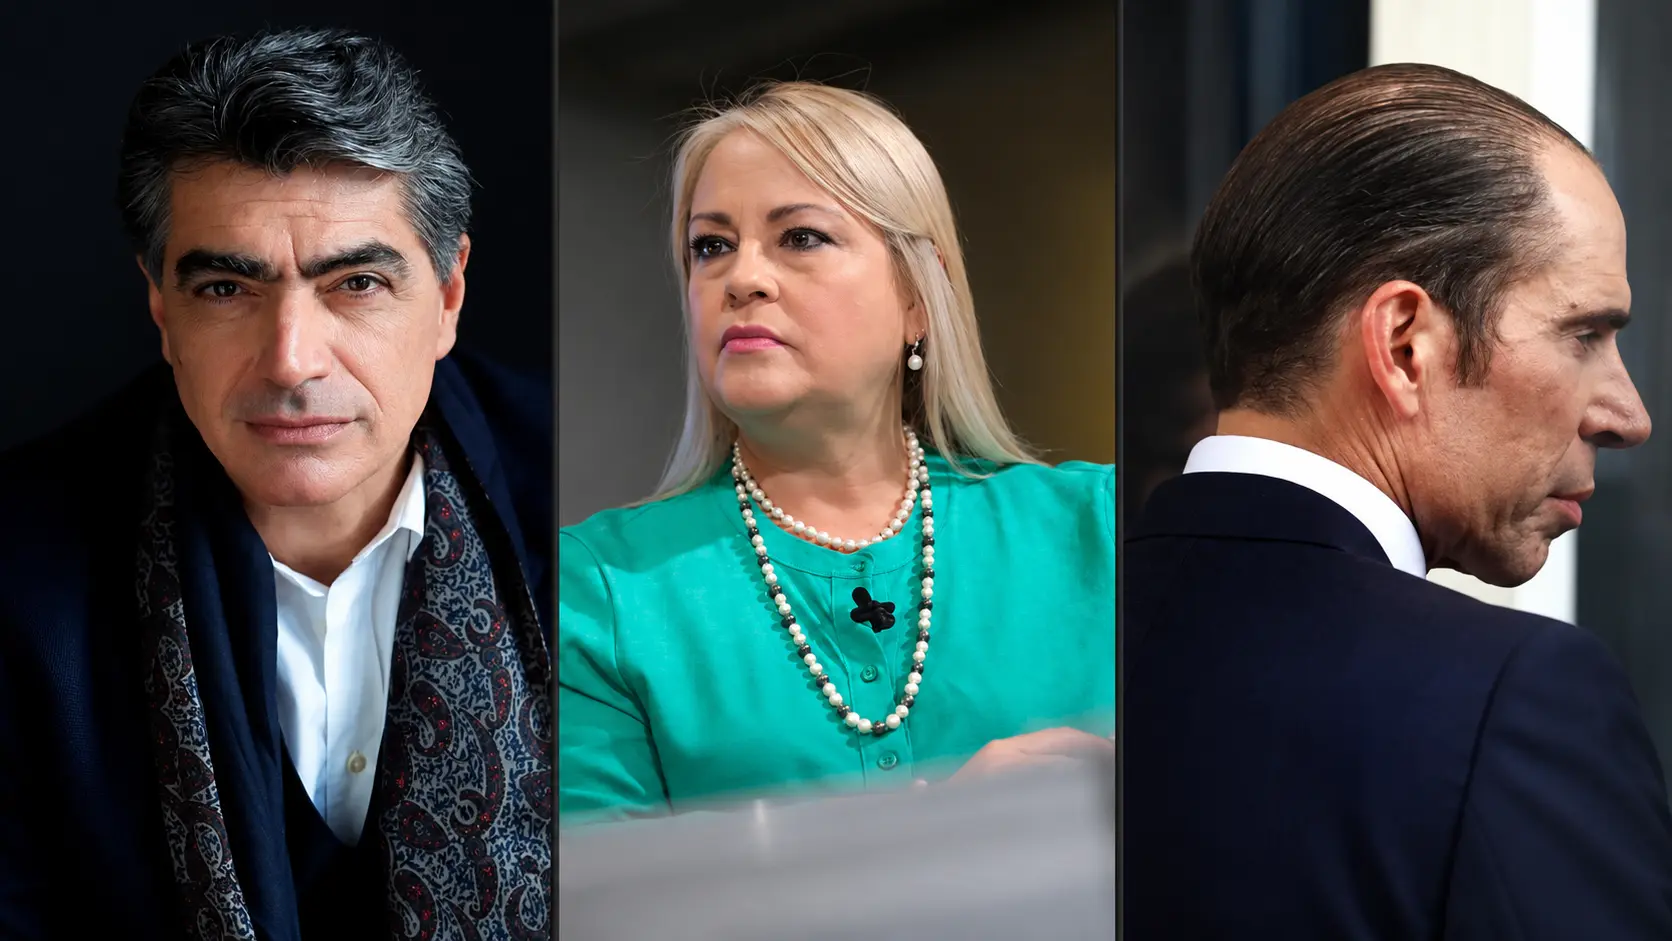
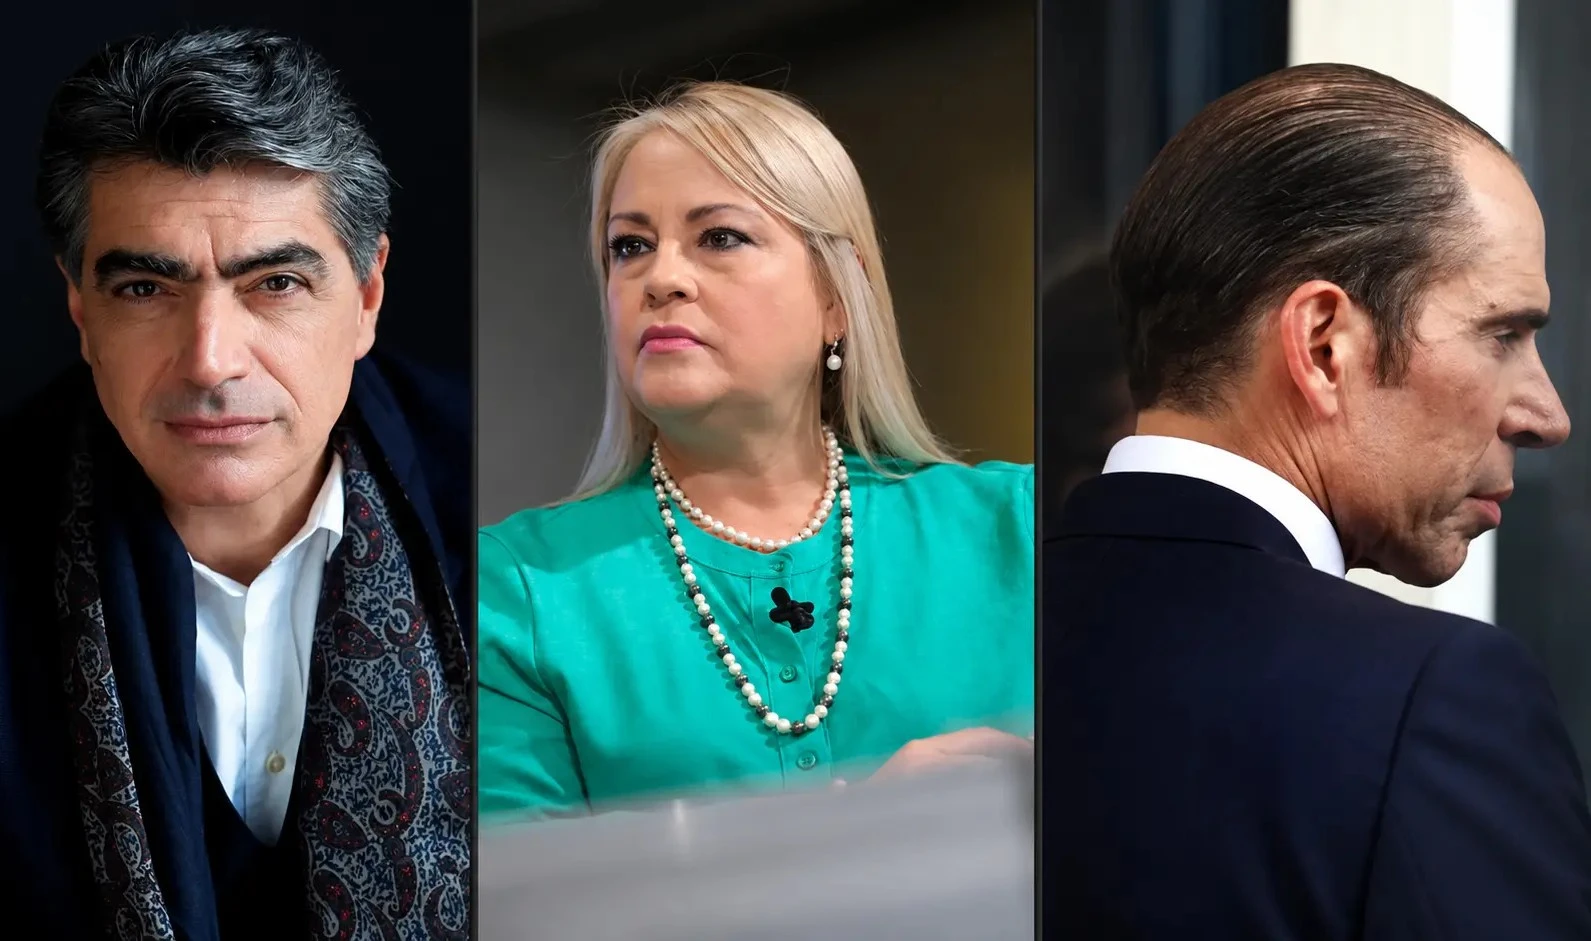
css adjustments

diff --git a/src/app/page.jsx b/src/app/page.jsx
@@ -772,7 +772,12 @@ export default function Home() {
             </Link>
           </h2>
         </div>
-        <div className="grid grid-cols-1 md:grid-cols-2 gap-8 md:gap-10">
+        {/*
+          Desktop: 2-col × 2-row grid.
+          Featured spans both rows → sets total height.
+          Each side card fills one row (½ of featured height).
+        */}
+        <div className="grid grid-cols-1 gap-6 md:grid-cols-2 md:grid-rows-2 md:gap-x-8 md:gap-y-5">
           <Link
             href={`/${
               inOtherNews.featured.categories?.[0]
@@ -780,50 +785,111 @@ export default function Home() {
                 : "world"
             }/${inOtherNews.featured.slug}`}
             title={inOtherNews.featured.title}
-            className="relative group cursor-pointer overflow-hidden border border-gray-200 block min-h-[400px]"
+            className="group flex flex-col overflow-hidden border border-gray-200 bg-white transition-shadow duration-300 hover:shadow-lg md:row-span-2"
           >
-            <Image
-              src={inOtherNews.featured.image}
-              alt={inOtherNews.featured.title}
-              fill
-              sizes="(max-width:768px) 100vw, 50vw"
-              className="object-cover transition-transform duration-700 group-hover:scale-105"
-            />
-            <div className="absolute inset-0 bg-black/50 group-hover:bg-black/60 transition-colors z-10" />
-            <div className="absolute inset-0 flex flex-col justify-end items-center text-center p-6 md:p-12 pb-8 text-white z-20">
-              <div className="flex gap-2 mb-4">
+            {/* Wider aspect so the 3-person composite isn’t side-cropped */}
+            <div className="relative aspect-[21/9] w-full shrink-0 overflow-hidden bg-gray-100">
+              <Image
+                src={inOtherNews.featured.image}
+                alt={inOtherNews.featured.title}
+                fill
+                sizes="(max-width: 768px) 100vw, 50vw"
+                className="object-cover object-center transition-transform duration-700 group-hover:scale-[1.03]"
+                priority
+              />
+            </div>
+
+            <div className="flex flex-col items-center px-5 py-5 text-center sm:px-7 sm:py-6">
+              <div className="mb-2.5 flex flex-wrap justify-center gap-2">
                 {inOtherNews.featured.categories.map((cat, idx) => (
                   <span
                     key={idx}
-                    className={`${cat.color} text-[10px] font-bold px-3 py-1 uppercase tracking-wider`}
+                    className={`${cat.color} px-3 py-1 text-[10px] font-bold uppercase tracking-wider text-white`}
                   >
                     {cat.label}
                   </span>
                 ))}
               </div>
               {inOtherNews.featured.isSponsored && (
-                <div className="text-[12px] font-medium mb-2">
-                  <Bell size={12} aria-hidden="true" className="inline mr-1" />
+                <div className="mb-2 text-[12px] font-medium text-gray-500">
+                  <Bell size={12} aria-hidden="true" className="mr-1 inline" />
                   Sponsored content
                 </div>
               )}
-              <h3 className="text-2xl font-bold leading-tight mb-4 max-w-md group-hover:text-blue-300 transition-colors">
+              <h3 className="mb-2 max-w-lg text-balance text-xl font-bold leading-snug text-gray-950 transition-colors group-hover:text-[#1565c0] sm:text-[1.35rem]">
                 {inOtherNews.featured.title}
               </h3>
-              <div className="text-[12px] font-bold uppercase tracking-widest mb-4">
+              <p className="mb-3 text-[11px] font-bold uppercase tracking-widest text-gray-500">
                 By {inOtherNews.featured.author}
-              </div>
-              <p className="text-[15px] italic font-serif leading-relaxed max-w-sm border-t border-white/20 pt-4">
-                &ldquo;{inOtherNews.featured.quote}&rdquo;
               </p>
+              {inOtherNews.featured.quote && (
+                <p className="max-w-md border-t border-gray-200 pt-3 text-[14px] italic leading-relaxed text-gray-600 sm:text-[15px]">
+                  &ldquo;{inOtherNews.featured.quote}&rdquo;
+                </p>
+              )}
             </div>
           </Link>
 
-          <div className="grid grid-cols-1 sm:grid-cols-2 gap-8 md:gap-10">
-            {puertoRicoGridSafe.map((news) => (
-              <NewsCard key={news.id} {...news} />
-            ))}
-          </div>
+          {puertoRicoGridSafe.map((news) => {
+            const href = `/${news.category}/${news.slug}`;
+            const iso = toISODate(news.date);
+            return (
+              <article
+                key={news.id}
+                className="group flex min-h-0 flex-col md:h-full"
+              >
+                {/* Image takes remaining space so the two cards share featured height */}
+                <div className="relative mb-2.5 aspect-[16/9] w-full shrink-0 overflow-hidden bg-gray-100 md:aspect-auto md:min-h-0 md:flex-1">
+                  <Link
+                    href={href}
+                    title={news.title}
+                    className="relative block h-full min-h-[120px] w-full md:min-h-0"
+                  >
+                    <Image
+                      src={news.image}
+                      alt={news.title}
+                      fill
+                      sizes="(max-width: 768px) 100vw, 50vw"
+                      className="object-cover object-center transition-transform duration-500 group-hover:scale-105"
+                    />
+                    <span
+                      className={`absolute bottom-2 left-2 z-10 ${news.categoryColor} px-2 py-0.5 text-[10px] font-bold uppercase tracking-wider text-white`}
+                    >
+                      {news.categoryLabel}
+                    </span>
+                  </Link>
+                </div>
+
+                <div className="shrink-0">
+                  <div className="mb-1 flex items-center gap-1 text-[11px] text-gray-400">
+                    <Calendar size={11} aria-hidden="true" />
+                    <time dateTime={iso}>{news.date}</time>
+                  </div>
+                  <h3 className="mb-1 text-[15px] font-bold leading-snug text-gray-900 transition-colors group-hover:text-blue-600">
+                    <Link href={href} title={news.title}>
+                      {news.title}
+                    </Link>
+                  </h3>
+                  <p className="mb-1 text-xs text-gray-500">
+                    By{" "}
+                    <Link
+                      href={authorHref(news.author)}
+                      title={`More articles by ${news.author}`}
+                      rel="author"
+                      className="font-semibold text-gray-700 transition-colors hover:text-blue-600"
+                    >
+                      {news.author}
+                    </Link>
+                  </p>
+                  {news.description && (
+                    <p className="line-clamp-2 text-sm leading-snug text-gray-600">
+                      {news.description}
+                    </p>
+                  )}
+                </div>
+              </article>
+            );
+          })}
         </div>
 
         {/* ── POLICE ACCOUNTABILITY SECTION ──────────────────────────────── */}

diff --git a/src/components/InOtherNewsSection.jsx b/src/components/InOtherNewsSection.jsx
@@ -14,44 +14,47 @@ const InOtherNewsSection = ({ featured, grid }) => {
       </div>
 
       <div className="grid grid-cols-1 md:grid-cols-2 gap-8 md:gap-10">
-        {/* Featured large card */}
+        {/* Featured large card — image fully visible, text below */}
         <Link
           href={`/${featured.category || "business"}/${featured.slug}`}
-          className="relative group cursor-pointer overflow-hidden h-125 md:h-auto border border-gray-200 block"
+          className="group flex flex-col overflow-hidden border border-gray-200 bg-white transition-shadow duration-300 hover:shadow-lg"
         >
-          <Image
-            src={featured.image}
-            alt={featured.title}
-            fill
-            sizes="(max-width: 768px) 100vw, 50vw"
-            className="object-cover transition-transform duration-700 group-hover:scale-105"
-          />
-          <div className="absolute inset-0 bg-black/50 group-hover:bg-black/60 transition-colors z-10" />
-          <div className="absolute inset-0 flex flex-col justify-end items-center text-center p-6 md:p-12 pb-12 md:pb-2 text-white z-20">
-            <div className="flex gap-2 mb-4 md:pb-40">
+          <div className="relative aspect-[16/10] w-full overflow-hidden bg-gray-100">
+            <Image
+              src={featured.image}
+              alt={featured.title}
+              fill
+              sizes="(max-width: 768px) 100vw, 50vw"
+              className="object-cover object-center transition-transform duration-700 group-hover:scale-[1.03]"
+            />
+          </div>
+          <div className="flex flex-1 flex-col items-center px-5 py-6 text-center sm:px-8 sm:py-8">
+            <div className="mb-3 flex flex-wrap justify-center gap-2">
               {featured.categories.map((cat, idx) => (
                 <span
                   key={idx}
-                  className={`${cat.color} text-[10px] font-bold px-3 py-1 uppercase tracking-wider`}
+                  className={`${cat.color} px-3 py-1 text-[10px] font-bold uppercase tracking-wider text-white`}
                 >
                   {cat.label}
                 </span>
               ))}
             </div>
             {featured.isSponsored && (
-              <div className="text-[12px] font-medium mb-2 flex items-center gap-1">
+              <div className="mb-2 text-[12px] font-medium text-gray-500">
                 🔔 Sponsored content
               </div>
             )}
-            <h3 className="text-2xl font-bold leading-tight mb-4 max-w-md">
+            <h3 className="mb-3 max-w-lg text-balance text-xl font-bold leading-snug text-gray-950 transition-colors group-hover:text-[#1565c0] sm:text-2xl">
               {featured.title}
             </h3>
-            <div className="text-[12px] font-bold uppercase tracking-widest mb-6">
+            <p className="mb-4 text-[11px] font-bold uppercase tracking-widest text-gray-500">
               By {featured.author}
-            </div>
-            <p className="text-[16px] italic font-serif leading-relaxed max-w-sm border-t border-white/20 pt-4">
-              "{featured.quote}"
             </p>
+            {featured.quote && (
+              <p className="max-w-md border-t border-gray-200 pt-4 text-[15px] italic leading-relaxed text-gray-600 sm:text-base">
+                &ldquo;{featured.quote}&rdquo;
+              </p>
+            )}
           </div>
         </Link>
 

diff --git a/src/app/authors/[author]/page.jsx b/src/app/authors/[author]/page.jsx
@@ -224,24 +224,27 @@ function NewsListCard({ card }) {
   const iso = toISODate(a.date);
 
   return (
-    <article className="flex flex-col sm:flex-row border-b border-gray-200 pb-4 mb-6 last:border-0 last:mb-0">
-      <div className="w-full sm:w-[220px] md:w-[240px] flex-shrink-0 h-[180px] sm:h-[160px] overflow-hidden group">
-        {/* FIX: title attr on image link */}
-        <Link href={href} title={a.title} className="relative block w-full h-full">
+    <article className="mb-6 flex flex-col border-b border-gray-200 pb-4 last:mb-0 last:border-0 sm:flex-row">
+      <div className="group w-full flex-shrink-0 overflow-hidden sm:w-[240px] md:w-[280px]">
+        <Link
+          href={href}
+          title={a.title}
+          className="relative block aspect-[2/1] w-full bg-gray-100"
+        >
           <Image
             src={a.image}
             alt={a.title}
             fill
-            sizes="(max-width:768px) 100vw, 240px"
-            className="object-cover transition-transform duration-500 group-hover:scale-105"
+            sizes="(max-width: 640px) 100vw, 280px"
+            className="object-cover object-center transition-transform duration-500 group-hover:scale-105"
           />
           {a.hasVideo && <PlayIcon />}
-          <div className="absolute bottom-2 left-2 flex gap-1 flex-wrap z-10">
+          <div className="absolute bottom-2 left-2 z-10 flex flex-wrap gap-1">
             {hasTags
               ? a.tags.map((t) => (
                   <span
                     key={t.label}
-                    className={`${t.color} text-white text-[10px] font-bold px-2 py-0.5 uppercase tracking-wide`}
+                    className={`${t.color} px-2 py-0.5 text-[10px] font-bold uppercase tracking-wide text-white`}
                   >
                     {t.label}
                   </span>

diff --git a/src/app/[category]/page.jsx b/src/app/[category]/page.jsx
@@ -303,22 +303,26 @@ function NewsListCard({ card }) {
   const iso = toISODate(a.date);
 
   return (
-    <article className="flex flex-col sm:flex-row border-b border-gray-200 pb-4 mb-6 last:border-0 last:mb-0">
-      <div className="w-full sm:w-[220px] md:w-[240px] flex-shrink-0 h-[180px] sm:h-[160px] overflow-hidden group">
-        <Link href={href} title={a.title} className="relative block w-full h-full">
+    <article className="mb-6 flex flex-col border-b border-gray-200 pb-4 last:mb-0 last:border-0 sm:flex-row">
+      <div className="group w-full flex-shrink-0 overflow-hidden sm:w-[240px] md:w-[280px]">
+        <Link
+          href={href}
+          title={a.title}
+          className="relative block aspect-[2/1] w-full bg-gray-100"
+        >
           <Image
             src={a.image}
             alt={a.title}
             fill
-            sizes="(max-width:768px) 100vw, 240px"
-            className="object-cover transition-transform duration-500 group-hover:scale-105"
+            sizes="(max-width: 640px) 100vw, 280px"
+            className="object-cover object-center transition-transform duration-500 group-hover:scale-105"
           />
           {a.hasVideo && <PlayIcon />}
-          <div className="absolute bottom-2 left-2 flex gap-1 flex-wrap z-10">
+          <div className="absolute bottom-2 left-2 z-10 flex flex-wrap gap-1">
             {a.tags.map((t) => (
               <span
                 key={t.label}
-                className={`${t.color} text-white text-[10px] font-bold px-2 py-0.5 uppercase tracking-wide`}
+                className={`${t.color} px-2 py-0.5 text-[10px] font-bold uppercase tracking-wide text-white`}
               >
                 {t.label}
               </span>

diff --git a/src/components/NewsCard.jsx b/src/components/NewsCard.jsx
@@ -20,16 +20,13 @@ const NewsCard = ({
       {/* 2. SEMANTIC TAG: <article> helps Google understand this is a news entry */}
       <article className="flex flex-col border border-gray-200 p-4 bg-white hover:shadow-md transition-shadow duration-300 h-full">
         
-        {/* Image Container */}
-        <div className="relative aspect-[4/3] overflow-hidden bg-gray-100 mb-4">
-          
-          {/* 3. NEXT/IMAGE: 'sizes' is CRITICAL here to prevent blurriness */}
-          <Image 
-            src={image} 
-            alt={title} 
+        {/* Image Container — 16:10 shows full composite images cleanly */}
+        <div className="relative mb-4 aspect-[16/10] overflow-hidden bg-gray-100">
+          <Image
+            src={image}
+            alt={title}
             fill
-            className="object-cover transition-transform duration-500 group-hover:scale-105"
-            // This string tells the browser how wide the image is on different screens
+            className="object-cover object-center transition-transform duration-500 group-hover:scale-105"
             sizes="(max-width: 768px) 100vw, (max-width: 1200px) 50vw, 33vw"
           />
 
